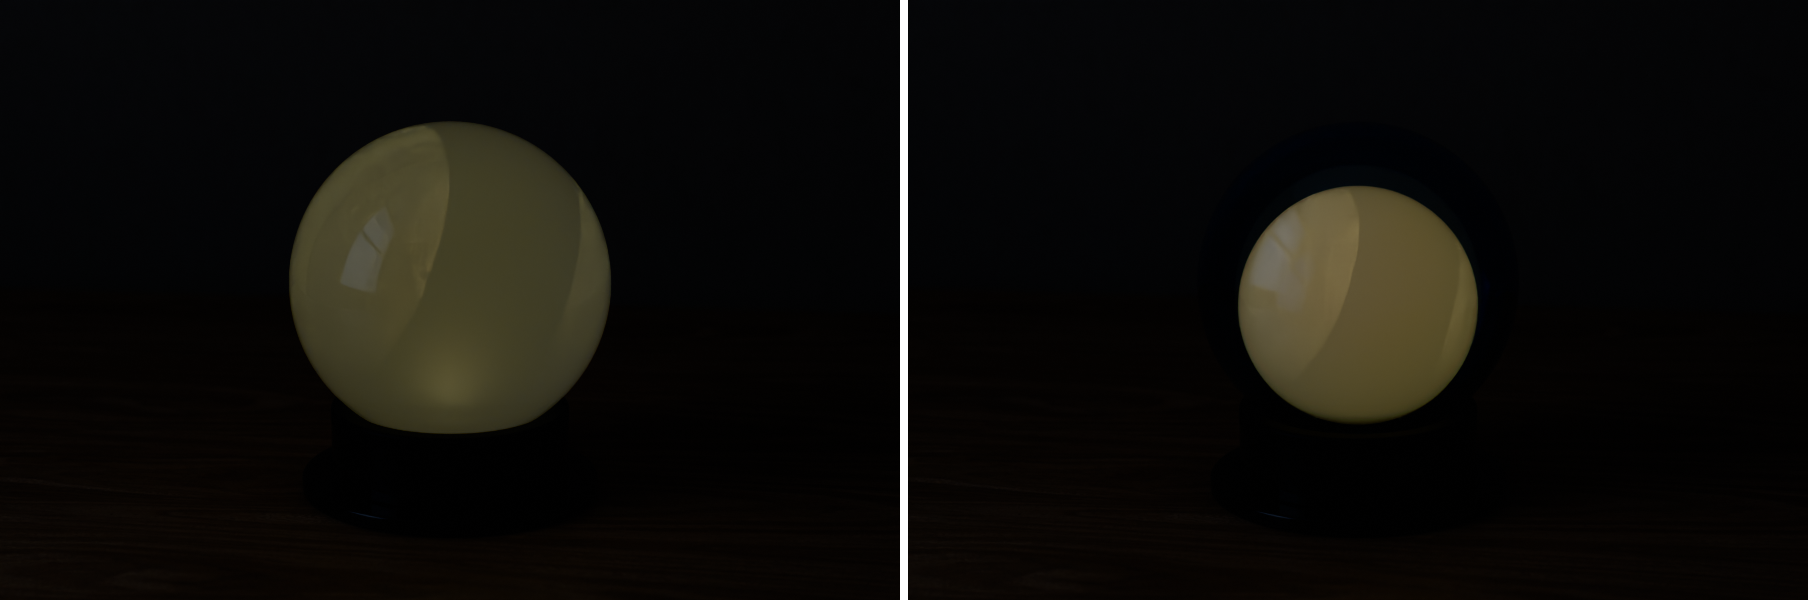
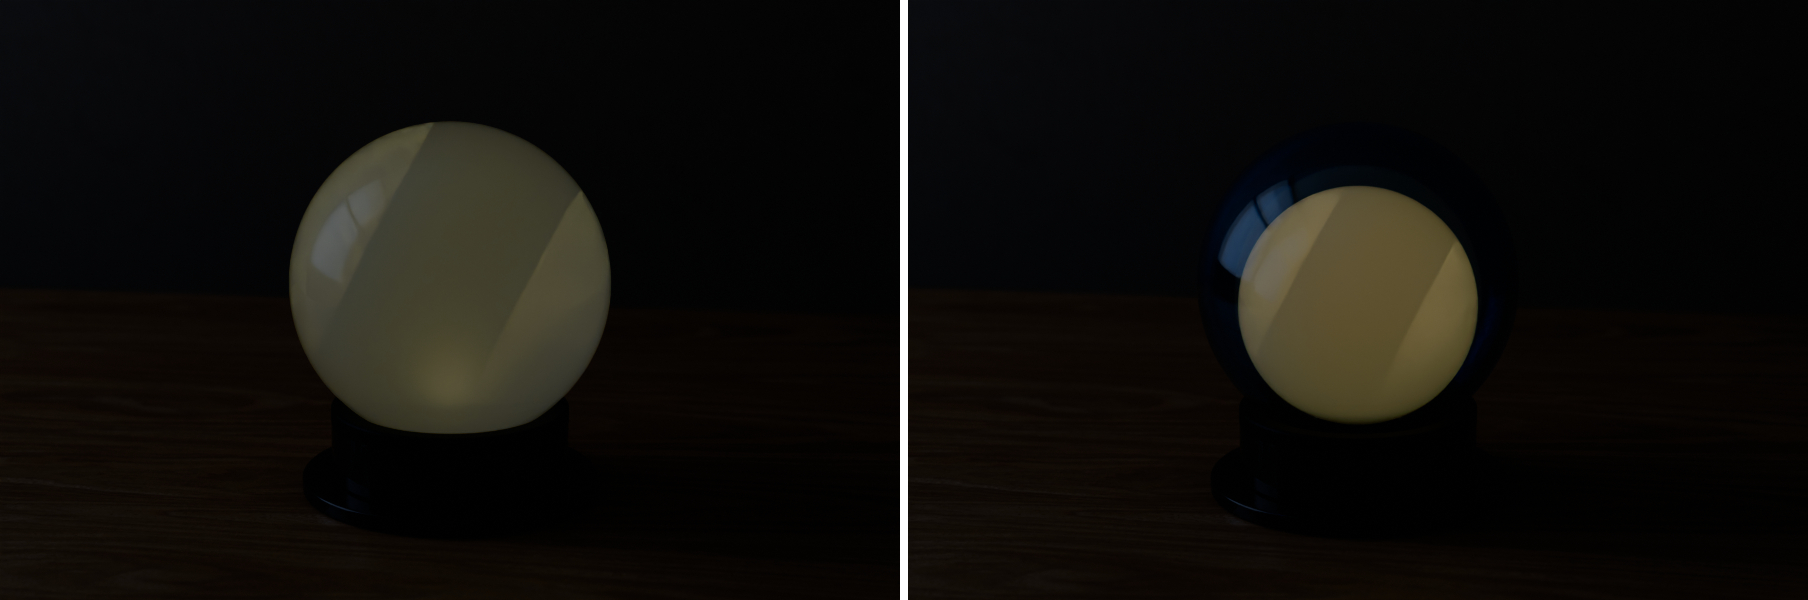
Core A/B nights: the dusk window slid 0.9 back along the left wall (WIN_DY), so its reflection crosses B's outer ring (the tally's point 5, no rim light); both nights re-rendered, 0 hidden in frame
Claude-Session: https://claude.ai/code/session_01VCPNDaozJgar2mVTSvis3A

Changed region(s): [[0.1549, 0.3, 0.2168, 0.48], [0.6504, 0.3, 0.7124, 0.48]]

diff --git a/spinoffs/barkhorn/companions/lamp_pictures.py b/spinoffs/barkhorn/companions/lamp_pictures.py
@@ -447,10 +447,13 @@ def build(frame, samples, scale):
         nts.links.new(mx_.outputs[0], os_.inputs['Surface'])
         # the dusk outside follows the exposure as the fill does (k), so the room reads the same at any exposure
         dW = float(os.environ.get('DUSK_W', '20')) * rk * 2.0 ** ({'core': 1.8, 'hemi': -3.0}[prod] - ev)   # tuned at those exposures
-        gobo(-1.3, -1.3, -0.35, 0.75, 2.4, panes=(1, 2))
-        SC.plane('sheer-left', (0.95, 1.65), (-1.27, -0.825, 1.575), (90, 0, 90), sheer)
-        dl = SC.area('dusk-left', (-1.75, -0.825, 1.575), (0, 0, 0), (1.0, 1.7), dW, '#9FB2D6')
-        dl.rotation_euler = (Vector((0.0, -0.825, 1.575)) - dl.location).to_track_quat('-Z', 'Y').to_euler()
+        # 2026-11-09 (the Core A/B tally, point 5: give B's shell something real to read against): WIN_DY slides the
+        # night window's opening back along the left wall, so its reflection moves out toward the ball's silhouette
+        wd = float(os.environ.get('WIN_DY', '0.9' if prod == 'core' else '0'))   # Core: its reflection on B's outer ring
+        gobo(-1.3, -1.3 + wd, -0.35 + wd, 0.75, 2.4, panes=(1, 2))
+        SC.plane('sheer-left', (0.95, 1.65), (-1.27, -0.825 + wd, 1.575), (90, 0, 90), sheer)
+        dl = SC.area('dusk-left', (-1.75, -0.825 + wd, 1.575), (0, 0, 0), (1.0, 1.7), dW, '#9FB2D6')
+        dl.rotation_euler = (Vector((0.0, -0.825 + wd, 1.575)) - dl.location).to_track_quat('-Z', 'Y').to_euler()
         if prod != 'core':
             wall = bpy.data.objects['wall']; wm = wall.active_material; wy = wall.location[1]
             bpy.data.objects.remove(wall, do_unlink=True)
